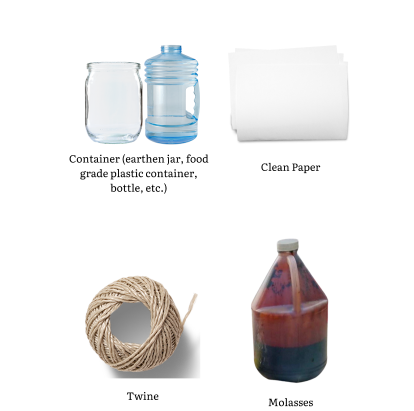
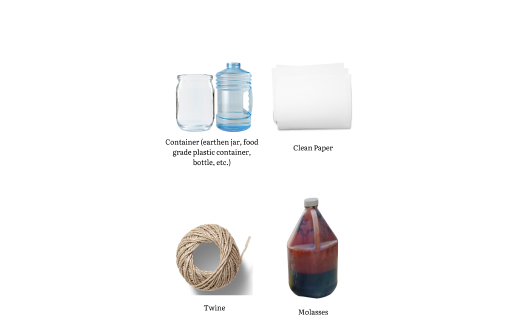
Resized ffjMaterials.png added interstitial ads

diff --git a/lib/View/menu/menuView.dart b/lib/View/menu/menuView.dart
@@ -6,9 +6,11 @@ import 'package:gaia/ViewModel/DarkViewModel.dart';
 import 'package:gaia/constants/colors.dart';
 import 'package:go_router/go_router.dart';
 import 'package:google_fonts/google_fonts.dart';
+import 'package:google_mobile_ads/google_mobile_ads.dart';
 import 'package:lottie/lottie.dart';
 
 import '../../ViewModel/LanugageViewModel.dart';
+import '../../constants/adHelper.dart';
 
 class MenuView extends ConsumerStatefulWidget {
   const MenuView({
@@ -22,6 +24,7 @@ class MenuView extends ConsumerStatefulWidget {
 class _MenuViewState extends ConsumerState<MenuView> with SingleTickerProviderStateMixin {
 
   late AnimationController controller;
+  InterstitialAd? _interstitialAd;
 
   var itemTitles = [
     "What is Urban Farming?",
@@ -51,6 +54,9 @@ class _MenuViewState extends ConsumerState<MenuView> with SingleTickerProviderSt
       duration: const Duration(seconds: 1),
       vsync: this,
     )..forward();
+
+
+
     super.initState();
   }
 
@@ -196,7 +202,29 @@ class _MenuViewState extends ConsumerState<MenuView> with SingleTickerProviderSt
                                         child: Column(
                                           children: [
                                             InkWell(
-                                              onTap: () {
+                                              onTap: () async {
+                                                await InterstitialAd.load(
+                                                  adUnitId: AdHelper.interstitialAdUnitId,
+                                                  request: const AdRequest(),
+                                                  adLoadCallback: InterstitialAdLoadCallback(
+                                                    onAdLoaded: (ad) {
+                                                      ad.fullScreenContentCallback = FullScreenContentCallback(
+                                                        onAdDismissedFullScreenContent: (ad) {
+
+                                                        },
+                                                      );
+
+                                                      _interstitialAd = ad;
+
+                                                    },
+                                                    onAdFailedToLoad: (err) {
+                                                      print('Failed to load an interstitial ad: ${err.message}');
+                                                    },
+                                                  ),
+                                                ).whenComplete(() async {
+                                                  await Future.delayed(const Duration(seconds: 1));
+                                                  _interstitialAd?.show();
+                                                });
                                                 context.push("/item${((index + 1) * 2)-1}");
                                               },
                                               child: Image.asset(
@@ -228,7 +256,29 @@ class _MenuViewState extends ConsumerState<MenuView> with SingleTickerProviderSt
                                     mainAxisAlignment: MainAxisAlignment.spaceBetween,
                                     children: List.generate(4, (index){
                                       return InkWell(
-                                        onTap: () {
+                                        onTap: () async {
+                                          await InterstitialAd.load(
+                                            adUnitId: AdHelper.interstitialAdUnitId,
+                                            request: const AdRequest(),
+                                            adLoadCallback: InterstitialAdLoadCallback(
+                                              onAdLoaded: (ad) {
+                                                ad.fullScreenContentCallback = FullScreenContentCallback(
+                                                  onAdDismissedFullScreenContent: (ad) {
+
+                                                  },
+                                                );
+
+                                                _interstitialAd = ad;
+
+                                              },
+                                              onAdFailedToLoad: (err) {
+                                                print('Failed to load an interstitial ad: ${err.message}');
+                                              },
+                                            ),
+                                          ).whenComplete(() async {
+                                            await Future.delayed(const Duration(seconds: 1));
+                                            _interstitialAd?.show();
+                                          });
                                           context.push("/item${((index + 1) * 2)}");
                                         },
                                         child: Container(

diff --git a/lib/View/menu/item2/Item2View.dart b/lib/View/menu/item2/Item2View.dart
@@ -2,11 +2,13 @@ import 'package:flutter/material.dart';
 import 'package:flutter_riverpod/flutter_riverpod.dart';
 import 'package:go_router/go_router.dart';
 import 'package:google_fonts/google_fonts.dart';
+import 'package:google_mobile_ads/google_mobile_ads.dart';
 import 'package:lottie/lottie.dart';
 
 import '../../../ViewModel/DarkViewModel.dart';
 import '../../../ViewModel/LanugageViewModel.dart';
 import '../../../common/PageView.dart';
+import '../../../constants/adHelper.dart';
 import '../../../constants/colors.dart';
 
 class Item2View extends ConsumerStatefulWidget {
@@ -20,6 +22,7 @@ class Item2View extends ConsumerStatefulWidget {
 
 class _Item2ViewState extends ConsumerState<Item2View> {
 
+  InterstitialAd? _interstitialAd;
 
   @override
   Widget build(BuildContext context) {
@@ -44,7 +47,29 @@ class _Item2ViewState extends ConsumerState<Item2View> {
             mainAxisAlignment: MainAxisAlignment.spaceAround,
             children: [
               InkWell(
-                onTap: (){
+                onTap: () async {
+                  await InterstitialAd.load(
+                    adUnitId: AdHelper.interstitialAdUnitId,
+                    request: const AdRequest(),
+                    adLoadCallback: InterstitialAdLoadCallback(
+                      onAdLoaded: (ad) {
+                        ad.fullScreenContentCallback = FullScreenContentCallback(
+                          onAdDismissedFullScreenContent: (ad) {
+
+                          },
+                        );
+
+                        _interstitialAd = ad;
+
+                      },
+                      onAdFailedToLoad: (err) {
+                        print('Failed to load an interstitial ad: ${err.message}');
+                      },
+                    ),
+                  ).whenComplete(() async {
+                    await Future.delayed(const Duration(seconds: 1));
+                    _interstitialAd?.show();
+                  });
                   context.pushNamed("desc", params: {
                     "title": "Backyard Gardening",
                     "image": "assets/images/byGarden.png",
@@ -77,7 +102,29 @@ class _Item2ViewState extends ConsumerState<Item2View> {
                 ),
               ),
               InkWell(
-                onTap: (){
+                onTap: () async {
+                  await InterstitialAd.load(
+                    adUnitId: AdHelper.interstitialAdUnitId,
+                    request: const AdRequest(),
+                    adLoadCallback: InterstitialAdLoadCallback(
+                      onAdLoaded: (ad) {
+                        ad.fullScreenContentCallback = FullScreenContentCallback(
+                          onAdDismissedFullScreenContent: (ad) {
+
+                          },
+                        );
+
+                        _interstitialAd = ad;
+
+                      },
+                      onAdFailedToLoad: (err) {
+                        print('Failed to load an interstitial ad: ${err.message}');
+                      },
+                    ),
+                  ).whenComplete(() async {
+                    await Future.delayed(const Duration(seconds: 1));
+                    _interstitialAd?.show();
+                  });
                   context.push("/backyardGardening");
                 },
                 child: Chip(

diff --git a/lib/common/MaterialsView.dart b/lib/common/MaterialsView.dart
@@ -27,7 +27,7 @@ class _MaterialsViewState extends ConsumerState<MaterialsView> {
     // TODO: Load a banner ad
     BannerAd(
       adUnitId: AdHelper.bannerAdUnitId,
-      request: AdRequest(),
+      request: const AdRequest(),
       size: AdSize.banner,
       listener: BannerAdListener(
         onAdLoaded: (ad) {
@@ -68,11 +68,11 @@ class _MaterialsViewState extends ConsumerState<MaterialsView> {
                   child: Image.asset(
                     widget.image,
                     alignment: Alignment.center,
-                    fit: BoxFit.fitHeight,
+                    fit: BoxFit .contain,
                   ),
                 ),
               ),
-              SizedBox(height: 50.0),
+              const SizedBox(height: 50.0),
               if (_bannerAd != null)
                 Align(
                   alignment: Alignment.bottomCenter,
